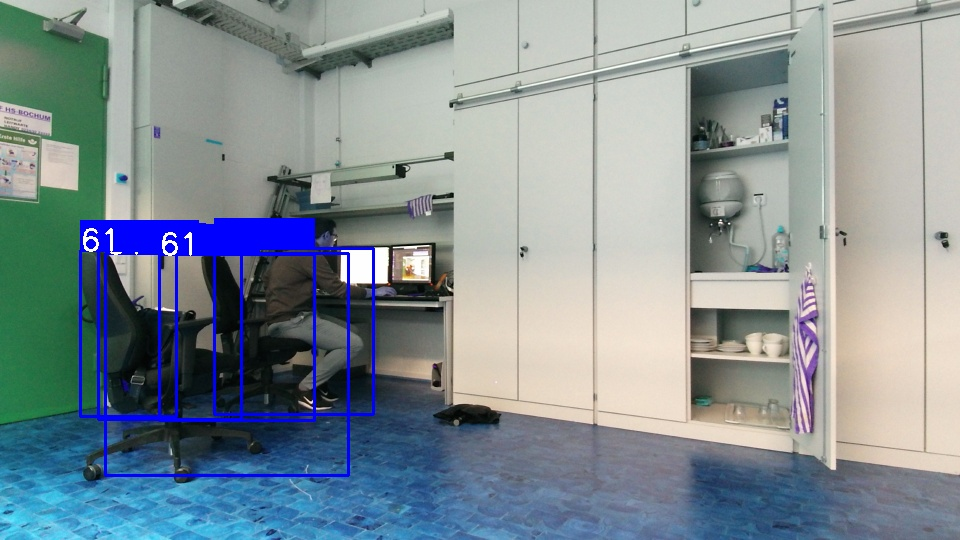
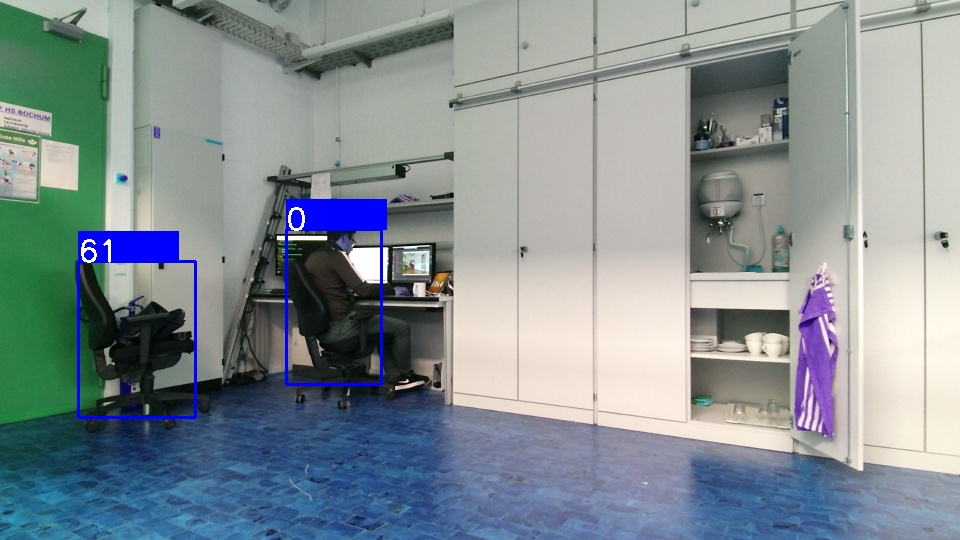
TFLite in Py27

diff --git a/Python/PeopleTracking/people2posetflite.py b/Python/PeopleTracking/people2posetflite.py
@@ -164,7 +164,7 @@ class PeopleRec:
         return bbox, framebgrsmall
 
     def getdetectionsbytflite(self, framebgrsmall):
-        """
+
         print("Input = " + str(framebgrsmall.shape))
         interpreter = tensorflow.lite.Interpreter(model_path="detect.tflite")
         interpreter.allocate_tensors()
@@ -178,21 +178,17 @@ class PeopleRec:
         input_data = np.array(cv2.resize(framebgrsmall, (300, 300)), dtype=np.uint8)
         cv2.imshow("test", cv2.resize(framebgrsmall, (300, 300)))
         key = cv2.waitKey(1) & 0xFF
-        start = time.time()
-        print(input_data.shape)
+
         input = np.reshape(input_data, [input_shape[0], input_shape[1], input_shape[2], input_shape[3]])
-        print(input[0])
+        start = time.time()
         interpreter.set_tensor(input_details[0]['index'], input)
 
         interpreter.invoke()
-
+        print("Tflite time = " + str(time.time() - start))
         # The function `get_tensor()` returns a copy of the tensor data.
         # Use `tensor()` in order to get a pointer to the tensor.
         output_data = interpreter.get_tensor(output_details[2]['index'])
         ou = interpreter.get_tensor(output_details[1]['index'])
-        print("Tflite time = " + str(time.time() - start))
-        print(output_data)
-        print(ou)
         """
 
         #labels = self.load_labels("labelmap.txt")
@@ -207,12 +203,13 @@ class PeopleRec:
         img = img.reshape(1, img.shape[0], img.shape[1], img.shape[2])
 
         # set input tensor
+        start = time.time()
         interpreter.set_tensor(input_details[0]['index'], img)
 
         # run
         interpreter.invoke()
-
-        # get outpu tensor
+        print("TFLite time: " + str(time.time()-start))
+        # get output tensor
         boxes = interpreter.get_tensor(output_details[0]['index'])
         labels = interpreter.get_tensor(output_details[1]['index'])
         scores = interpreter.get_tensor(output_details[2]['index'])
@@ -239,7 +236,7 @@ class PeopleRec:
         cv2.imwrite('output.jpg', img_org)
         cv2.imshow('image', img_org)
         key = cv2.waitKey(1)
-
+    """
     def load_labels(self, path):
         with open(path, 'r') as f:
             return {i: line.strip() for i, line in enumerate(f.readlines())}

diff --git a/Python/PeopleTracking/people2pose.py b/Python/PeopleTracking/people2pose.py
@@ -61,7 +61,6 @@ class PeopleRec:
         # Liste aller bekannten Personen
         self.listofpersons = []
         # self.net = cv2.dnn.readNetFromCaffe("deploy.prototxt", "res10_300x300_ssd_iter_140000.caffemodel")
-        self.trackers = cv2.MultiTracker_create()
         self.tfbroadcaster = transform.TransformBroadcaster()
         self.hog = cv2.HOGDescriptor()
         self.hog.setSVMDetector(cv2.HOGDescriptor_getDefaultPeopleDetector())
@@ -181,7 +180,7 @@ class PeopleRec:
         print("Das CNN hat " + str(end) +"s benoetigt.")
         return bbox, framebgrsmall
 
-    """
+
     def getdetectionsbytflite(self, framebgrsmall):
         # Load the TFLite model and allocate tensors.
         interpreter = tensorflow.lite.Interpreter(model_path="detect.tflite")
@@ -193,16 +192,17 @@ class PeopleRec:
 
         # Test the model on random input data.
         input_shape = input_details[0]['shape']
-        input_data = np.array(np.random.random_sample(input_shape), dtype=np.float32)
+        input_data = np.array(np.random.random_sample(input_shape), dtype=np.uint8)
+        start = time.time()
         interpreter.set_tensor(input_details[0]['index'], input_data)
 
         interpreter.invoke()
-
+        print("TFLite time: " + str(time.time() - start))
         # The function `get_tensor()` returns a copy of the tensor data.
         # Use `tensor()` in order to get a pointer to the tensor.
         output_data = interpreter.get_tensor(output_details[0]['index'])
-        print(output_data)
-    """
+
+    
 
     ## Prueft, ob erkannte Objekte Menschen sind.
     # @param[in] detections Liste von allen erkannten Objekten als Rechteck mit 4 gegebenen Punkten
@@ -454,6 +454,7 @@ class PeopleRec:
                     detectionsfront, imagefront = self.getdetectionsbycnn(self.frontframebgrsmall, "front")
                     print(detectionsfront)
                     self.managepeople(detectionsfront, self.frontimagebgrqhd, imagefront, "front")
+                    self.getdetectionsbytflite(self.frontimagebgrqhd)
 
                 if self.namespaceofrearcamera != "":
                     detectionsrear, imagerear = self.getdetectionsbycnn(self.rearframebgrsmall, "back")
